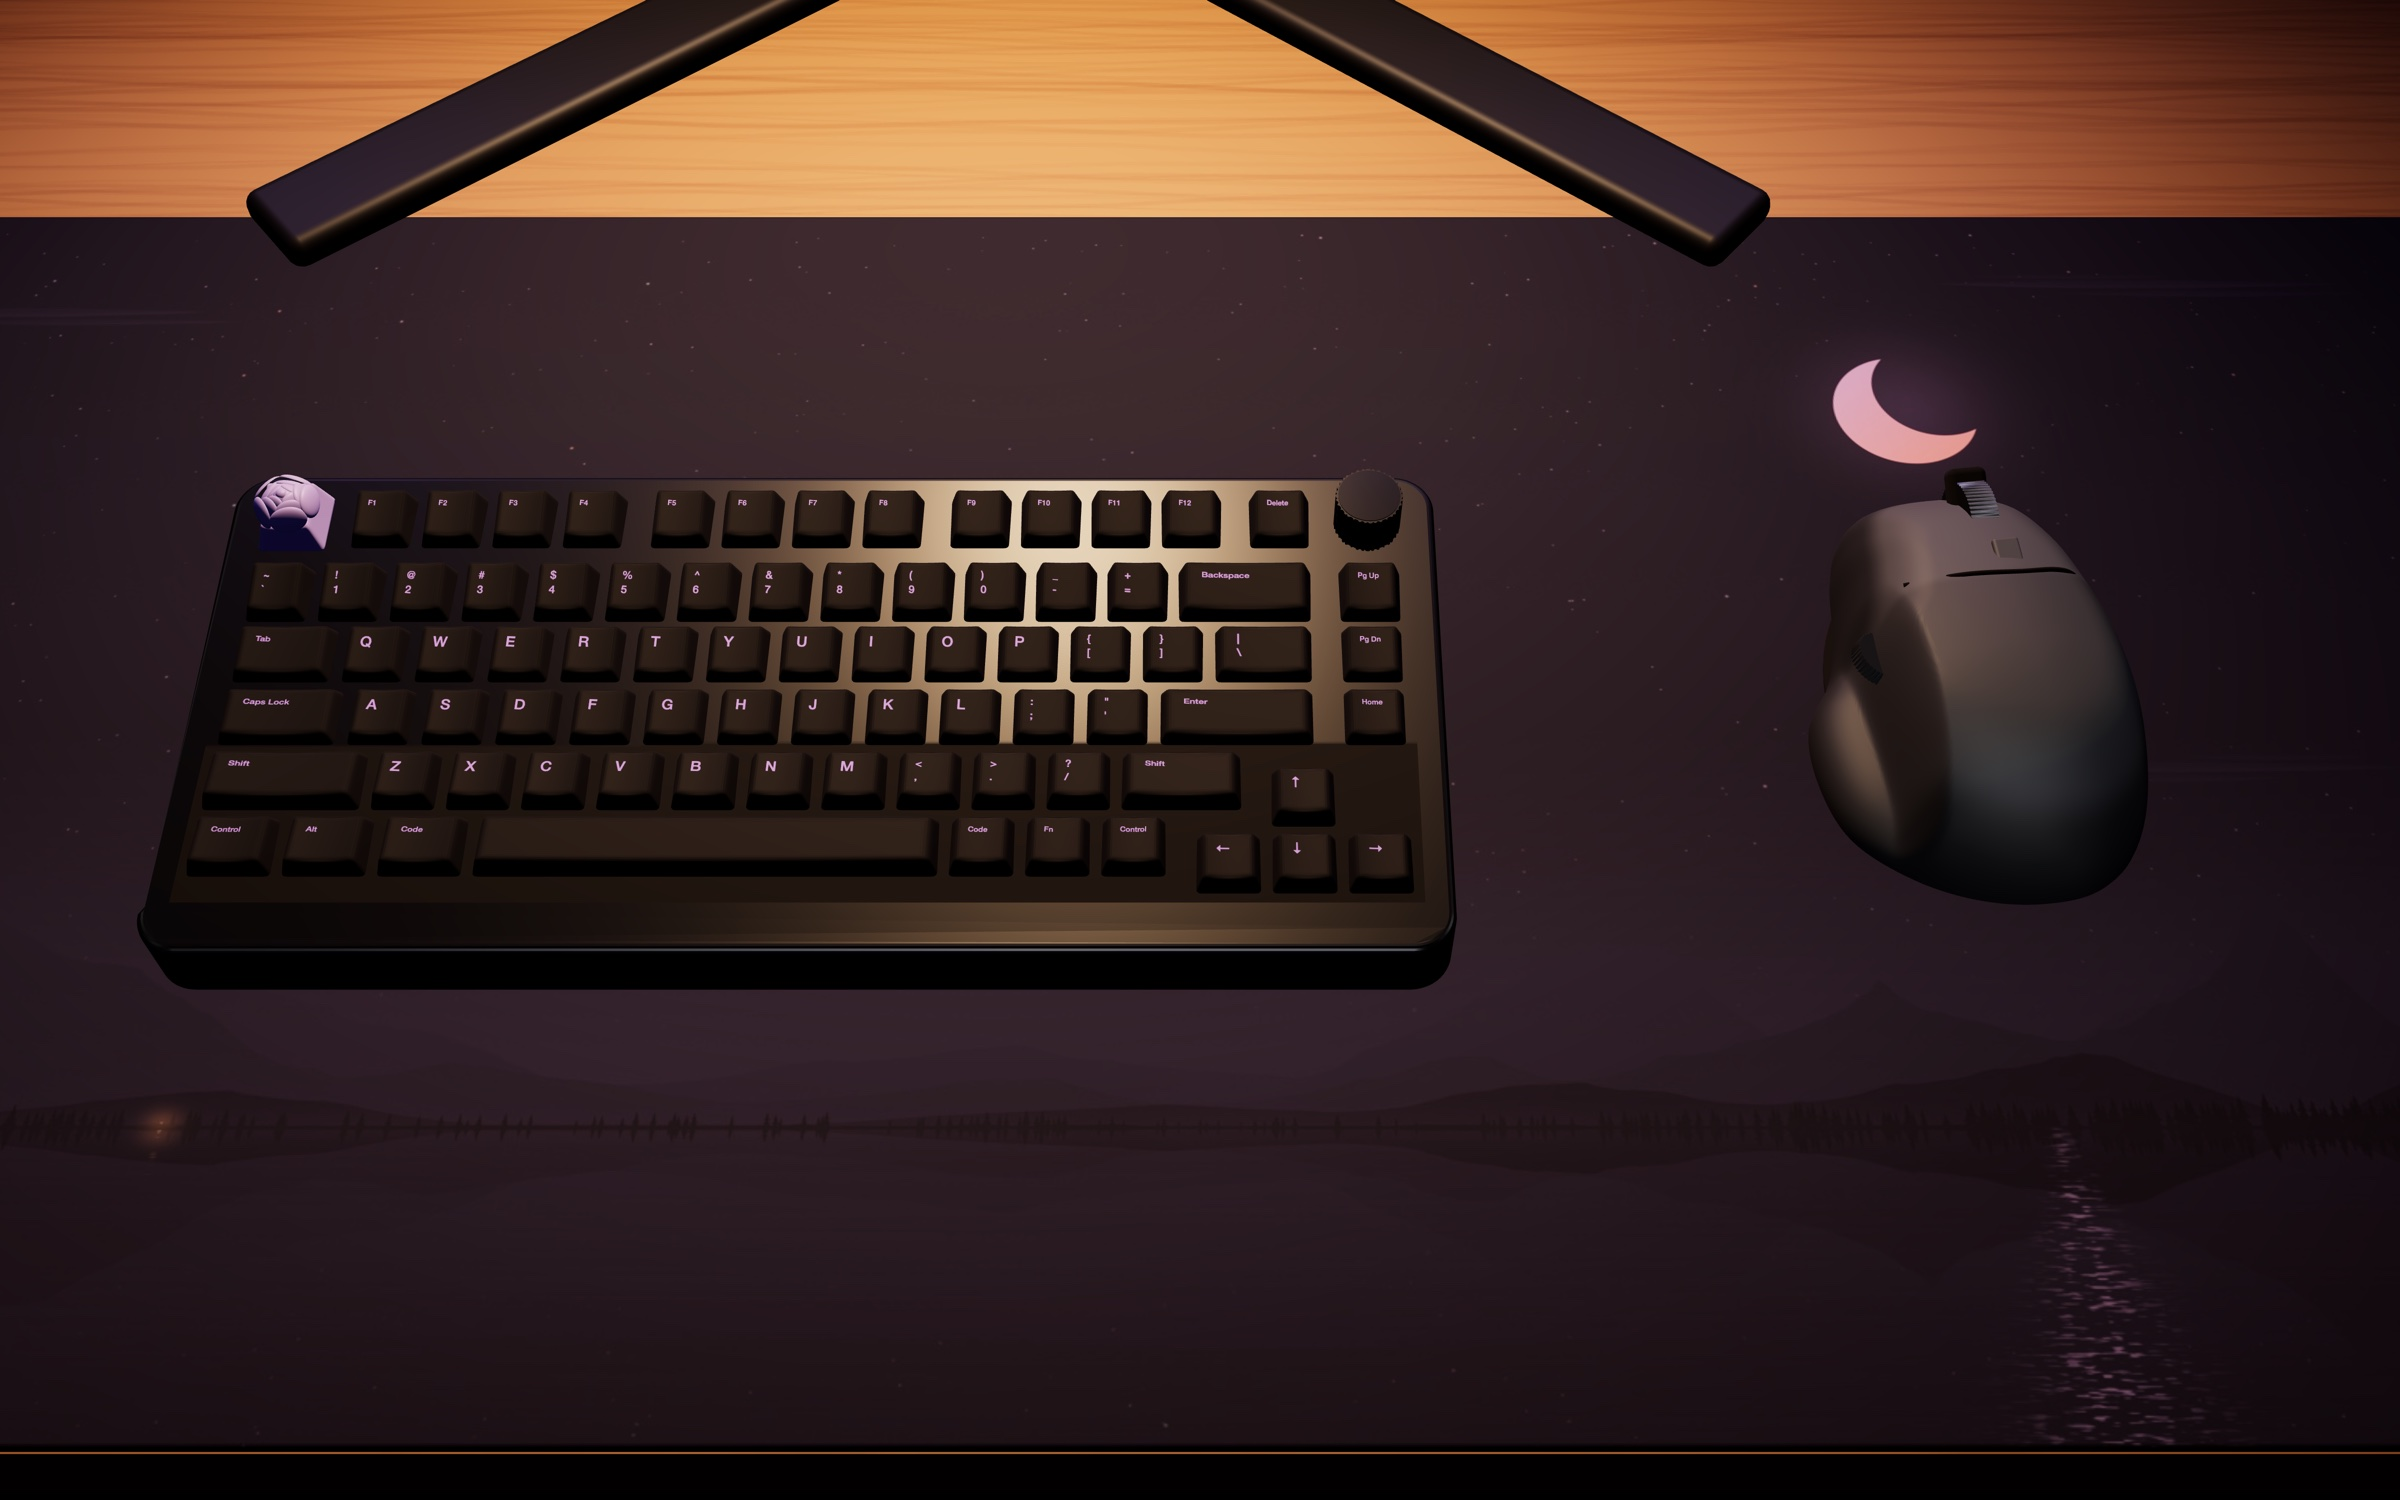
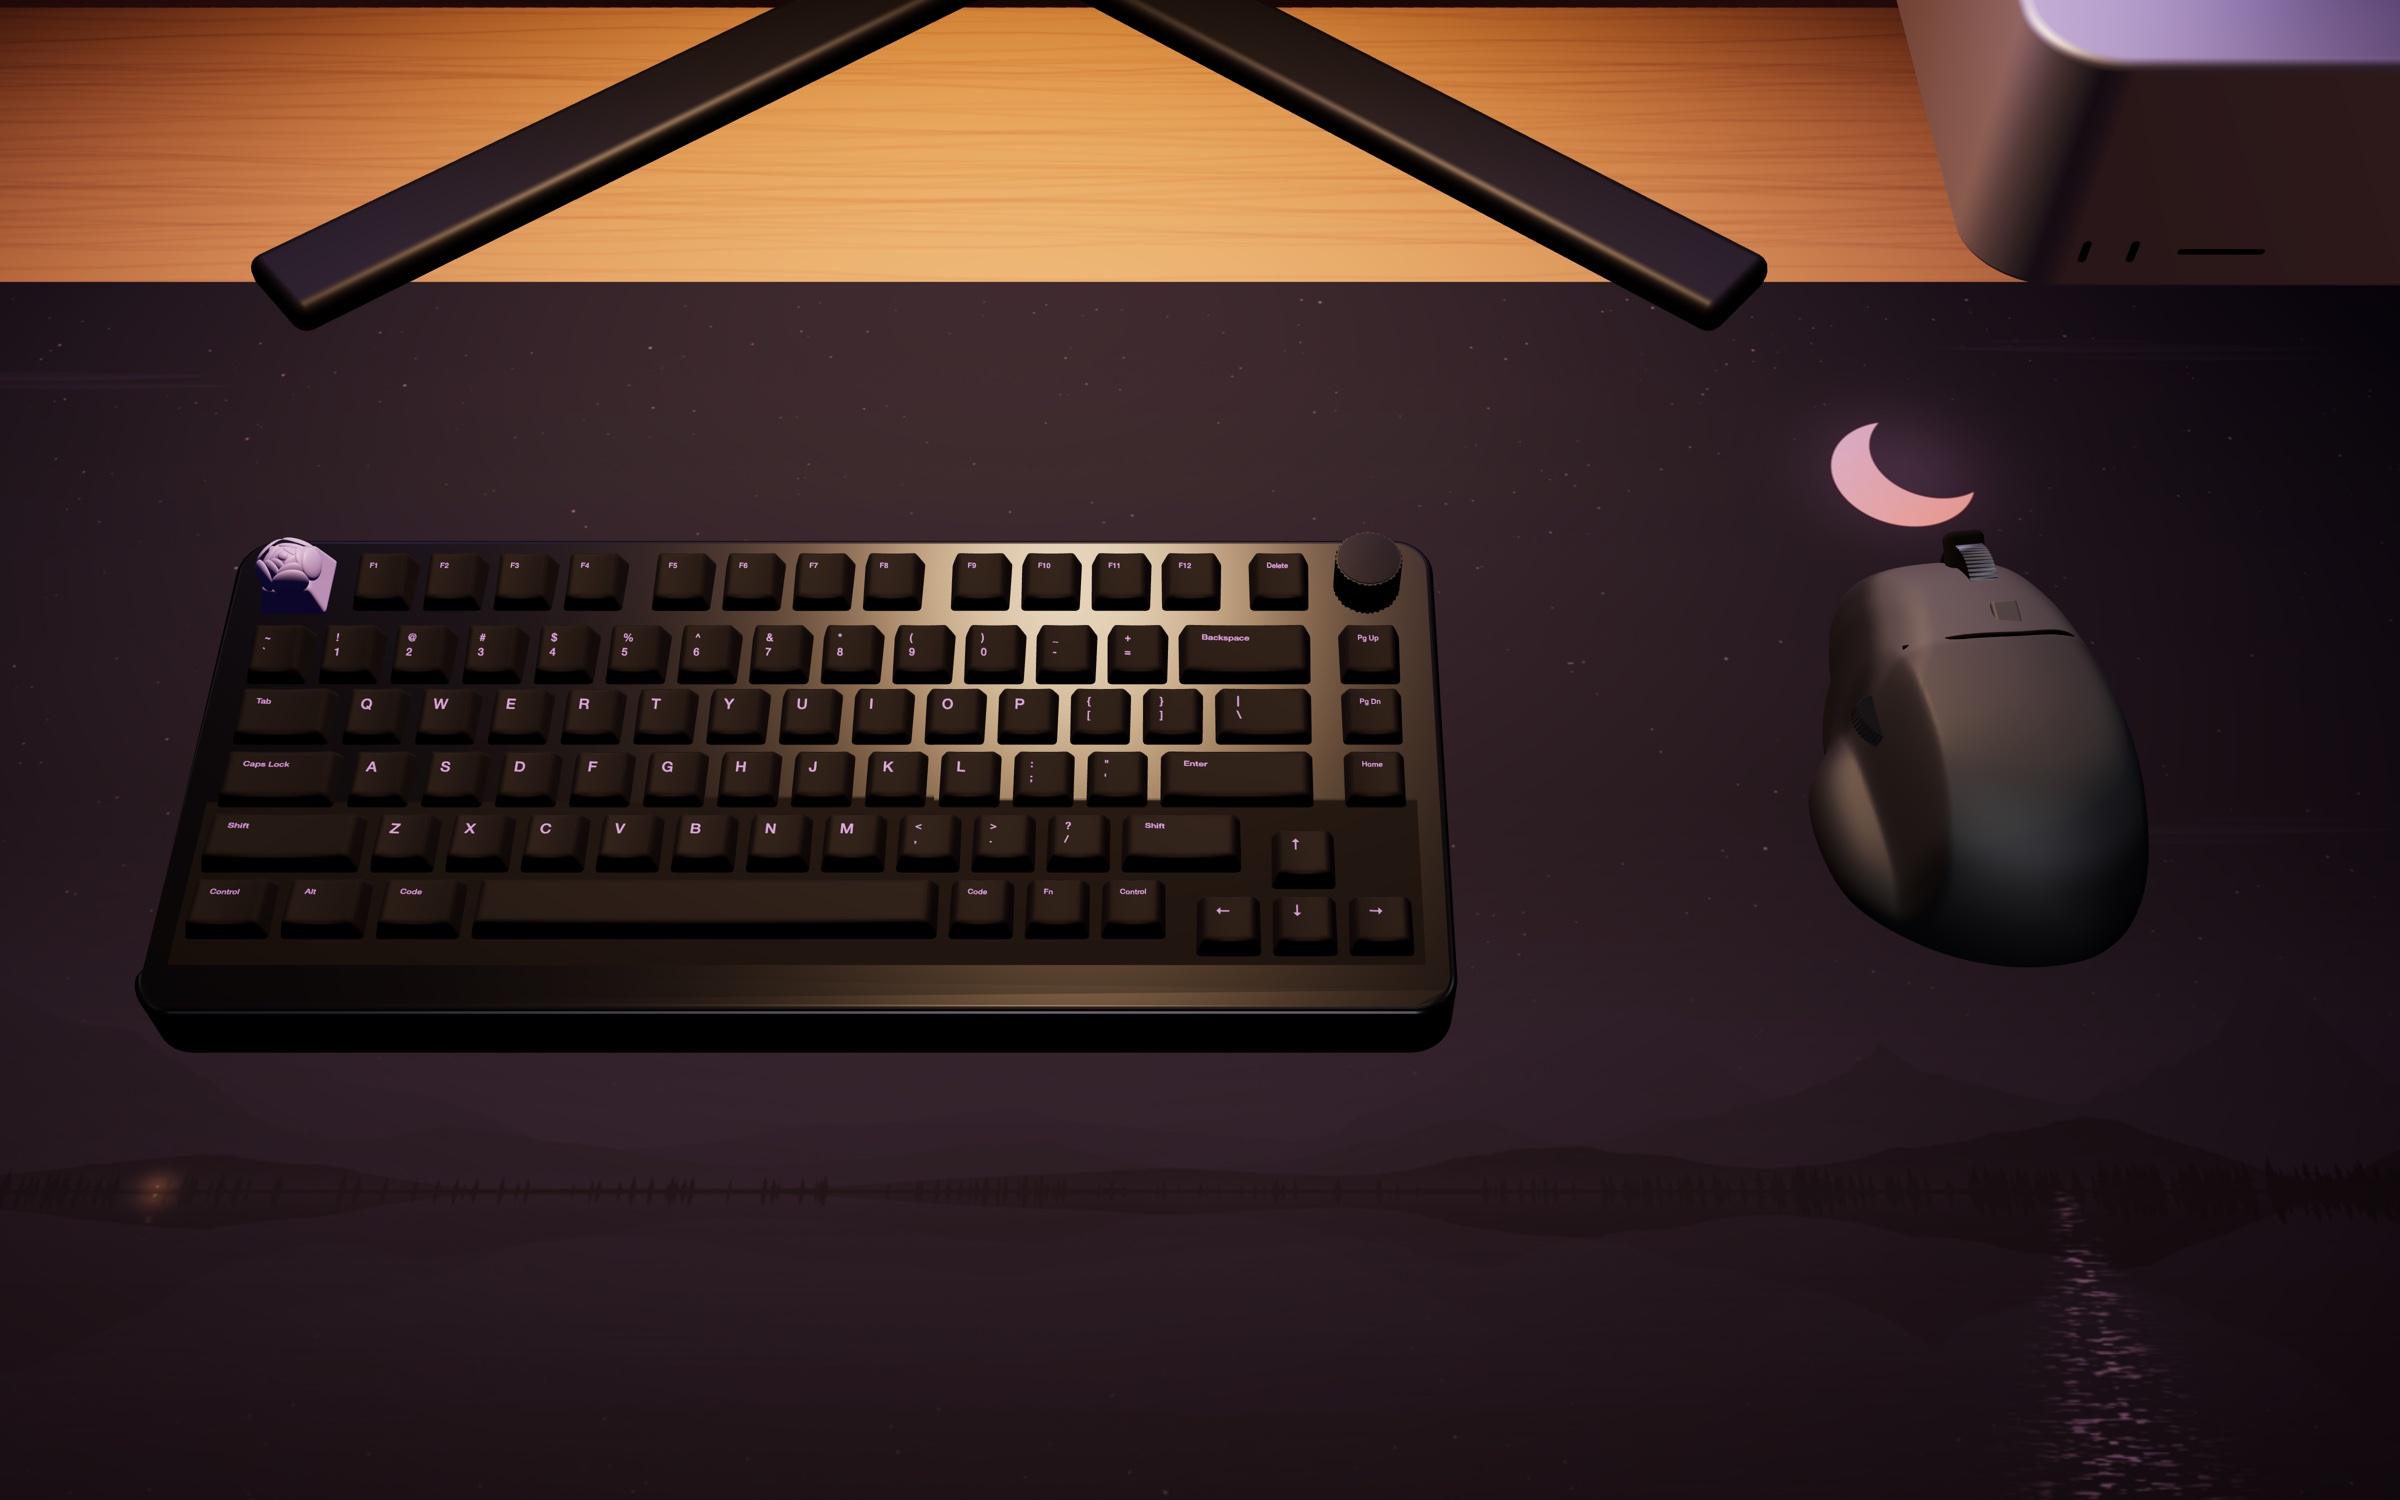
Lilac Moon site: the Mac Studio on the desk, on order

diff --git a/docs/index.html b/docs/index.html
@@ -32,10 +32,10 @@ h1 em { font-style: italic; color: var(--iris); font-weight: 300; }
 .kicker { font-family: var(--mono); font-size: 12px; letter-spacing: .14em; text-transform: uppercase; color: var(--subtle); }
 .scene { border-radius: 22px; overflow: hidden; background: #17151f; }
 .scene svg { display: block; width: 100%; height: auto; }
-.lede { max-width: 62ch; color: var(--subtle); font-size: 18px; margin: 0; }
+.lede { max-width: 62ch; color: var(--subtle); font-size: 18px; margin: 0; text-wrap: pretty; }
 section { display: grid; gap: 22px; }
 h2 { font-family: var(--display); font-weight: 500; font-size: clamp(26px, 3.6vw, 34px); margin: 0; color: var(--bright); letter-spacing: -.01em; text-wrap: balance; }
-.sub { color: var(--subtle); margin: 0; max-width: 64ch; }
+.sub { color: var(--subtle); margin: 0; max-width: 64ch; text-wrap: pretty; }
 .palette { display: grid; grid-template-columns: repeat(auto-fit, minmax(118px, 1fr)); gap: 12px; }
 .chip { display: grid; gap: 6px; }
 .chip span { display: block; height: 64px; border-radius: 12px; border: 1px solid var(--line); }
@@ -45,7 +45,7 @@ h2 { font-family: var(--display); font-weight: 500; font-size: clamp(26px, 3.6vw
 .two > * { min-width: 0; }
 figure { margin: 0; display: grid; gap: 10px; }
 figure img { width: 100%; border-radius: 14px; border: 1px solid var(--line); display: block; }
-figcaption { font-size: 14px; color: var(--subtle); }
+figcaption { font-size: 14px; color: var(--subtle); text-wrap: pretty; }
 .term { border-radius: 14px; border: 1px solid var(--line); background: rgba(31,29,48,.92); font-family: var(--mono); font-size: 13.5px; line-height: 1.7; padding: 16px 18px; overflow-x: auto; }
 .term .dim { color: var(--muted); } .term .iris { color: var(--iris); } .term .foam { color: var(--foam); } .term .gold { color: var(--gold); } .term .rose { color: var(--rose); } .term .pine { color: var(--pine); }
 .term .sel { background: #4a3f66; color: var(--bright); }
@@ -61,11 +61,13 @@ figcaption { font-size: 14px; color: var(--subtle); }
 .item { display: grid; grid-template-columns: 1fr auto; gap: 4px 20px; padding: 16px 0; border-bottom: 1px solid var(--line); }
 .item > div { min-width: 0; }
 .item b { color: var(--bright); font-weight: 600; }
-.item p { margin: 2px 0 0; color: var(--subtle); font-size: 15px; }
+.item p { margin: 2px 0 0; color: var(--subtle); font-size: 15px; text-wrap: pretty; }
 .item .price { font-family: var(--mono); font-size: 13px; color: var(--gold); font-variant-numeric: tabular-nums; white-space: nowrap; text-align: right; }
-.status { font-family: var(--mono); font-size: 11px; letter-spacing: .08em; text-transform: uppercase; padding: 2px 8px; border-radius: 999px; margin-left: 8px; vertical-align: 2px; }
+.item .price a { color: inherit; }
+.status { font-family: var(--mono); font-size: 11px; letter-spacing: .08em; text-transform: uppercase; padding: 2px 8px; border-radius: 999px; margin-left: 8px; vertical-align: 2px; white-space: nowrap; }
 .status.have { background: #2d3b3f; color: var(--foam); }
 .status.ready { background: #3a3150; color: var(--iris); }
+.status.order { background: #43362f; color: var(--gold); }
 a { color: var(--foam); text-underline-offset: 3px; }
 a:focus-visible { outline: 2px solid var(--iris); outline-offset: 2px; border-radius: 3px; }
 footer { color: var(--muted); font-size: 14px; border-top: 1px solid var(--line); padding-top: 22px; }
@@ -78,8 +80,8 @@ footer { color: var(--muted); font-size: 14px; border-top: 1px solid var(--line)
 <div class="wrap">
   <div class="cover">
     <div class="cover-title"><h1>Lilac <em>Moon</em></h1><span class="kicker">Noah's setup · desk, screen, sound</span></div>
-    <div class="scene"><img src="desk-full-vision.jpg" alt="The full Lilac Moon desk at night, from the chair: a 34-inch ultrawide showing a moonlit pine lake, a lilac glow on the wall around it, a warm light bar lighting the desk and a wire Miata on the wall above, and on the pine desk a black keyboard with purple legends and a lavender rose on Escape, a graphite mouse and a starry lake desk mat" style="display:block;width:100%;height:auto"></div>
-    <p class="lede">One theme across everything I touch: Rosé Pine Moon, made my own. A deep purple-grey ground, soft lilac-grey text, lavender for what's mine, rose for warmth, and a crescent moon that shows up on the screen, the desk and the wall.</p>
+    <div class="scene"><img src="desk-full-vision.jpg" alt="The full Lilac Moon desk at night, from the chair: a 34-inch ultrawide showing a moonlit pine lake, a lilac glow on the wall around it, a warm light bar lighting the desk and a wire Miata on the wall above, and on the pine desk a black keyboard with purple legends and a lavender rose on Escape, a graphite mouse on a starry lake desk mat, a silver Mac Studio tucked under the right end of the screen, and the MacBook standing closed on the left" style="display:block;width:100%;height:auto"></div>
+    <p class="lede">One theme across everything I touch: Rosé Pine Moon, made my own. A deep purple-gray ground, soft lilac-gray text, lavender for what's mine, rose for warmth, and a crescent moon that shows up on the screen, the desk and the wall.</p>
   </div>
 
   <section>
@@ -103,7 +105,7 @@ footer { color: var(--muted); font-size: 14px; border-top: 1px solid var(--line)
       <figure><img alt="The dynamic wallpaper at sunset: a still mountain lake in rose and purple, framed by pines, the sky mirrored in the water" src="wallpaper.jpg"><figcaption>The wallpaper follows the day: a lilac crescent over a pine lake at night, a peach dawn, soft lilac days, a rose sunset (here), then blue hour. A meteor at 3 a.m., and a cabin light on the far shore after dark.</figcaption></figure>
       <div style="display:grid; gap:10px; min-width:0">
         <div class="term" aria-label="Terminal in the Moon colors"><div><span class="dim">~/.dotfiles</span> <span class="pine">main</span> <span class="gold">!2</span></div><div><span class="iris">❯</span> <span class="sel">claude-pool</span></div><div class="dim">─────────────────────────────────────</div><div><span class="foam">●</span> Reading the build log, then the failing test…</div><div>&nbsp;</div><div><span class="dim">Opus 5.5 ·</span> <span class="iris">noah</span> <span class="dim">· ctx</span> <span class="foam">━━━━</span><span style="color:#56526e">──────────</span> <span class="dim">27%</span></div><div><span class="iris">❯</span> <span class="cursor">_</span></div></div>
-        <figcaption>WezTerm and herdr in Moon: translucent glass over the wallpaper, Maple Mono at 14.5, a quiet grey cursor and a lilac selection. VS Code wears Rosé Pine Moon, and Chrome too.</figcaption>
+        <figcaption>WezTerm and herdr in Moon: translucent glass over the wallpaper, Maple Mono at 14.5, a quiet gray cursor and a lilac selection. VS Code wears Rosé Pine Moon, and Chrome too.</figcaption>
       </div>
     </div>
   </section>
@@ -127,15 +129,16 @@ footer { color: var(--muted); font-size: 14px; border-top: 1px solid var(--line)
         <div class="item"><div><b>Capsmiths Lavender Rose</b><p>A lavender resin rose on Esc: the one lilac key.</p></div><span class="price"><a href="https://1upkeyboards.com/shop/keycaps/keycaps-keycaps/artisans/capsmiths-artisan-keycap-lavender-rose/">$25</a></span></div>
         <div class="item"><div><b>Lilac Moon desk mat, 90 × 40 cm</b><p>Stitched edges; its back edge slides just under the monitor stand's feet.</p></div><span class="price"><a href="https://deskmat.io/upload">$39</a></span></div>
         <div class="item"><div><b>Logitech MX Master 3, Graphite</b><p>Already mine. It sits on the moon.</p></div><span class="price">owned</span></div>
-        <div class="item"><div><b>Twelve South BookArc, Space Grey</b><p>The MacBook stands up beside the monitor, with Insert H for the 14".</p></div><span class="price"><a href="https://www.twelvesouth.com/products/bookarc-space-grey-macbook-pro">$19.98</a></span></div>
+        <div class="item"><div><b>Mac Studio, M5 Max</b><span class="status order">On order</span><p>The always-on agent machine: 128GB, wired to Ethernet, tucked under the right end of the screen.</p></div><span class="price"><a href="https://www.apple.com/mac-studio/">$5,899</a></span></div>
+        <div class="item"><div><b>Twelve South BookArc, Space Grey</b><p>When the MacBook is home, it stands up beside the monitor, with Insert H for the 14".</p></div><span class="price"><a href="https://www.twelvesouth.com/products/bookarc-space-grey-macbook-pro">$19.98</a></span></div>
       </div>
     </div>
-    <figure><img src="desk-detail.jpg" alt="Close up from above: the black Keychron with purple GMK legends, a knurled knob and a lavender resin rose on Escape, and the graphite MX Master 3 beside the crescent moon on the lake desk mat" style="width:100%;border-radius:14px;border:1px solid var(--line)"><figcaption>Closer. Every key is where the Q1's 75% layout puts it, sculpted row by row like the real caps.</figcaption></figure>
+    <figure><img src="desk-detail.jpg" alt="Close up from above: the black Keychron with purple GMK legends, a knurled knob and a lavender resin rose on Escape, and the graphite MX Master 3 beside the crescent moon on the lake desk mat, with the front corner of the Mac Studio at the top right" style="width:100%;border-radius:14px;border:1px solid var(--line)"><figcaption>Closer. Every key is where the Q1's 75% layout puts it, sculpted row by row like the real caps.</figcaption></figure>
   </section>
 
   <section>
     <h2>The room</h2>
-    <figure><img src="desk-full-vision-above.jpg" alt="The same desk from above and to the right: the lilac wall glow, the warm pool of the light bar on the pine, the keyboard and mouse on the lake desk mat, and the MacBook in its stand" style="width:100%;border-radius:14px;border:1px solid var(--line)"><figcaption>From above. Rendered to scale from photos of the real desk: real sizes, real light.</figcaption></figure>
+    <figure><img src="desk-full-vision-above.jpg" alt="The same desk from above and to the right: the lilac wall glow, the warm pool of the light bar on the pine, the keyboard and mouse on the lake desk mat, the Mac Studio in the back right corner, and the MacBook in its stand" style="width:100%;border-radius:14px;border:1px solid var(--line)"><figcaption>From above. Rendered to scale from photos of the real desk: real sizes, real light. The Mac Studio is drawn where it will sit once it arrives.</figcaption></figure>
     <div class="list">
       <div class="item"><div><b>BenQ ScreenBar Halo 2</b><p>Warm light on the desk, about 2700 K, and its rear backlight washing the wall above the monitor, which is what lights the Miata.</p></div><span class="price"><a href="https://www.amazon.com/dp/B0DK59YKRS">$199</a></span></div>
       <div class="item"><div><b>Hue Play starter kit</b><p>Two light bars on the back of the monitor, one near each end, and the Bridge: a lilac glow up the wall and around the screen.</p></div><span class="price">$244.99</span></div>
